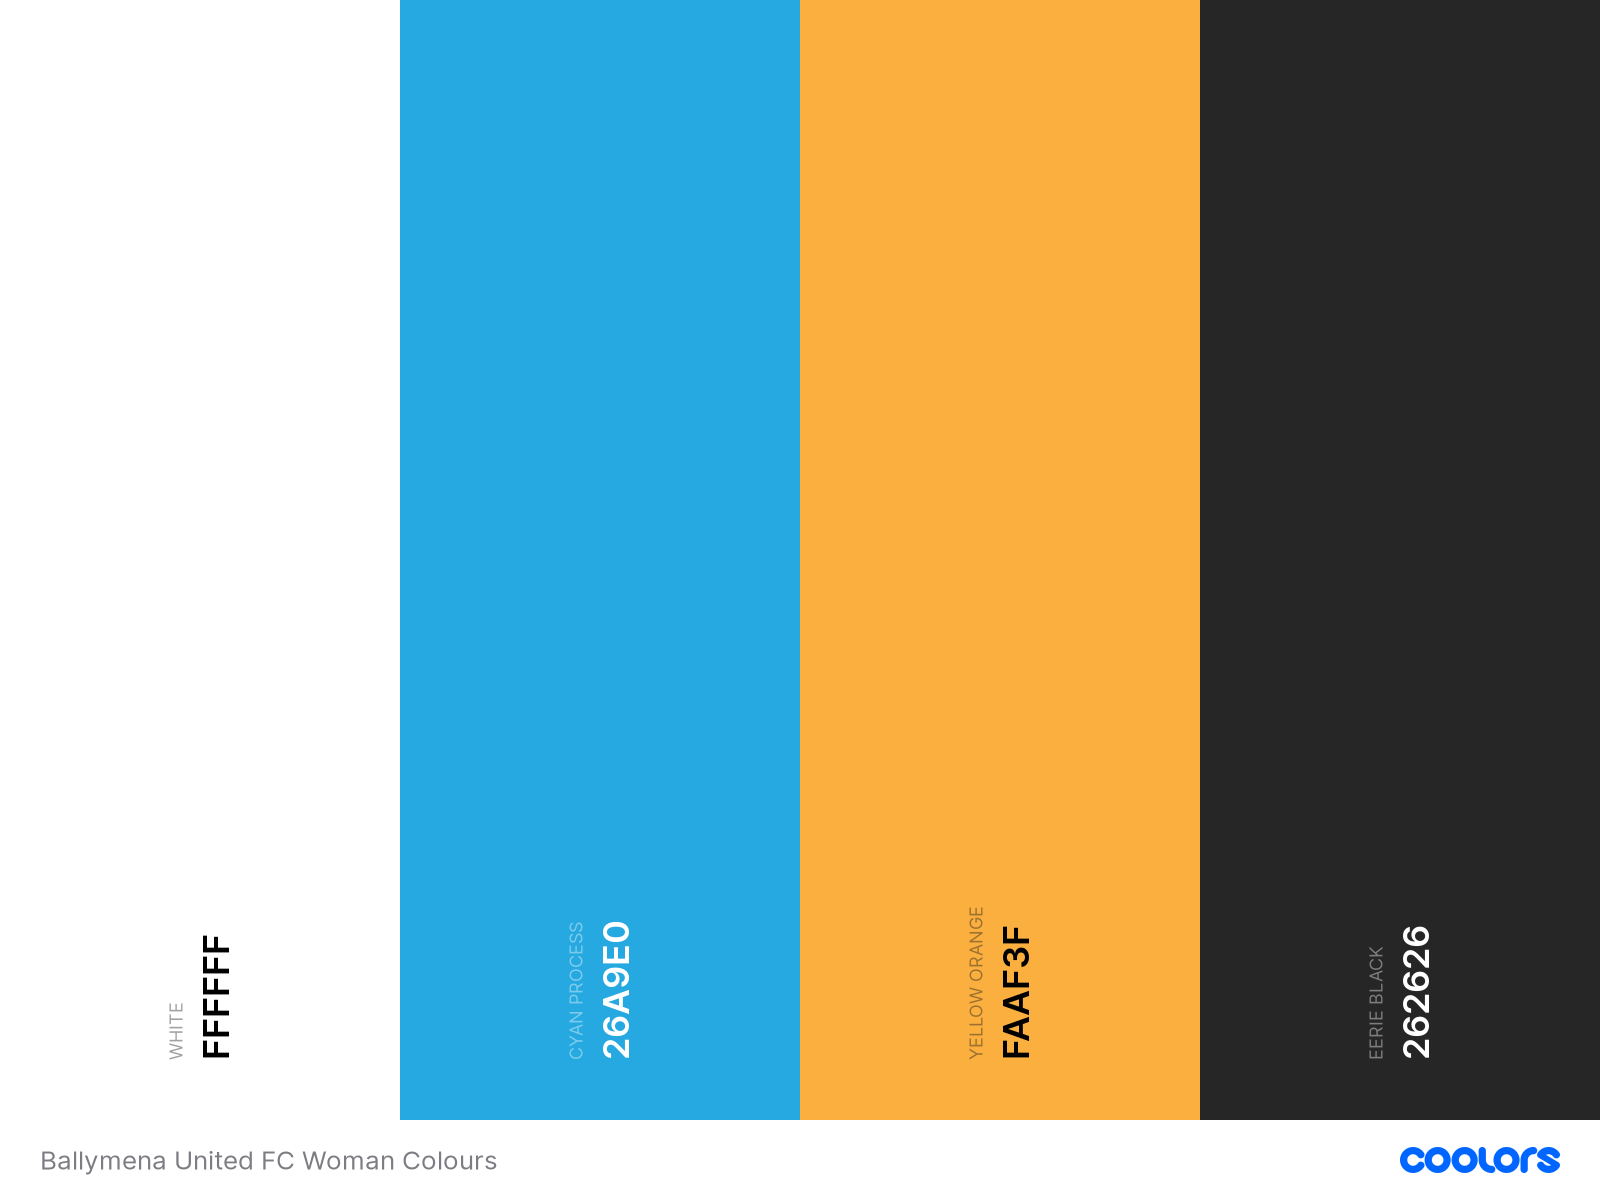
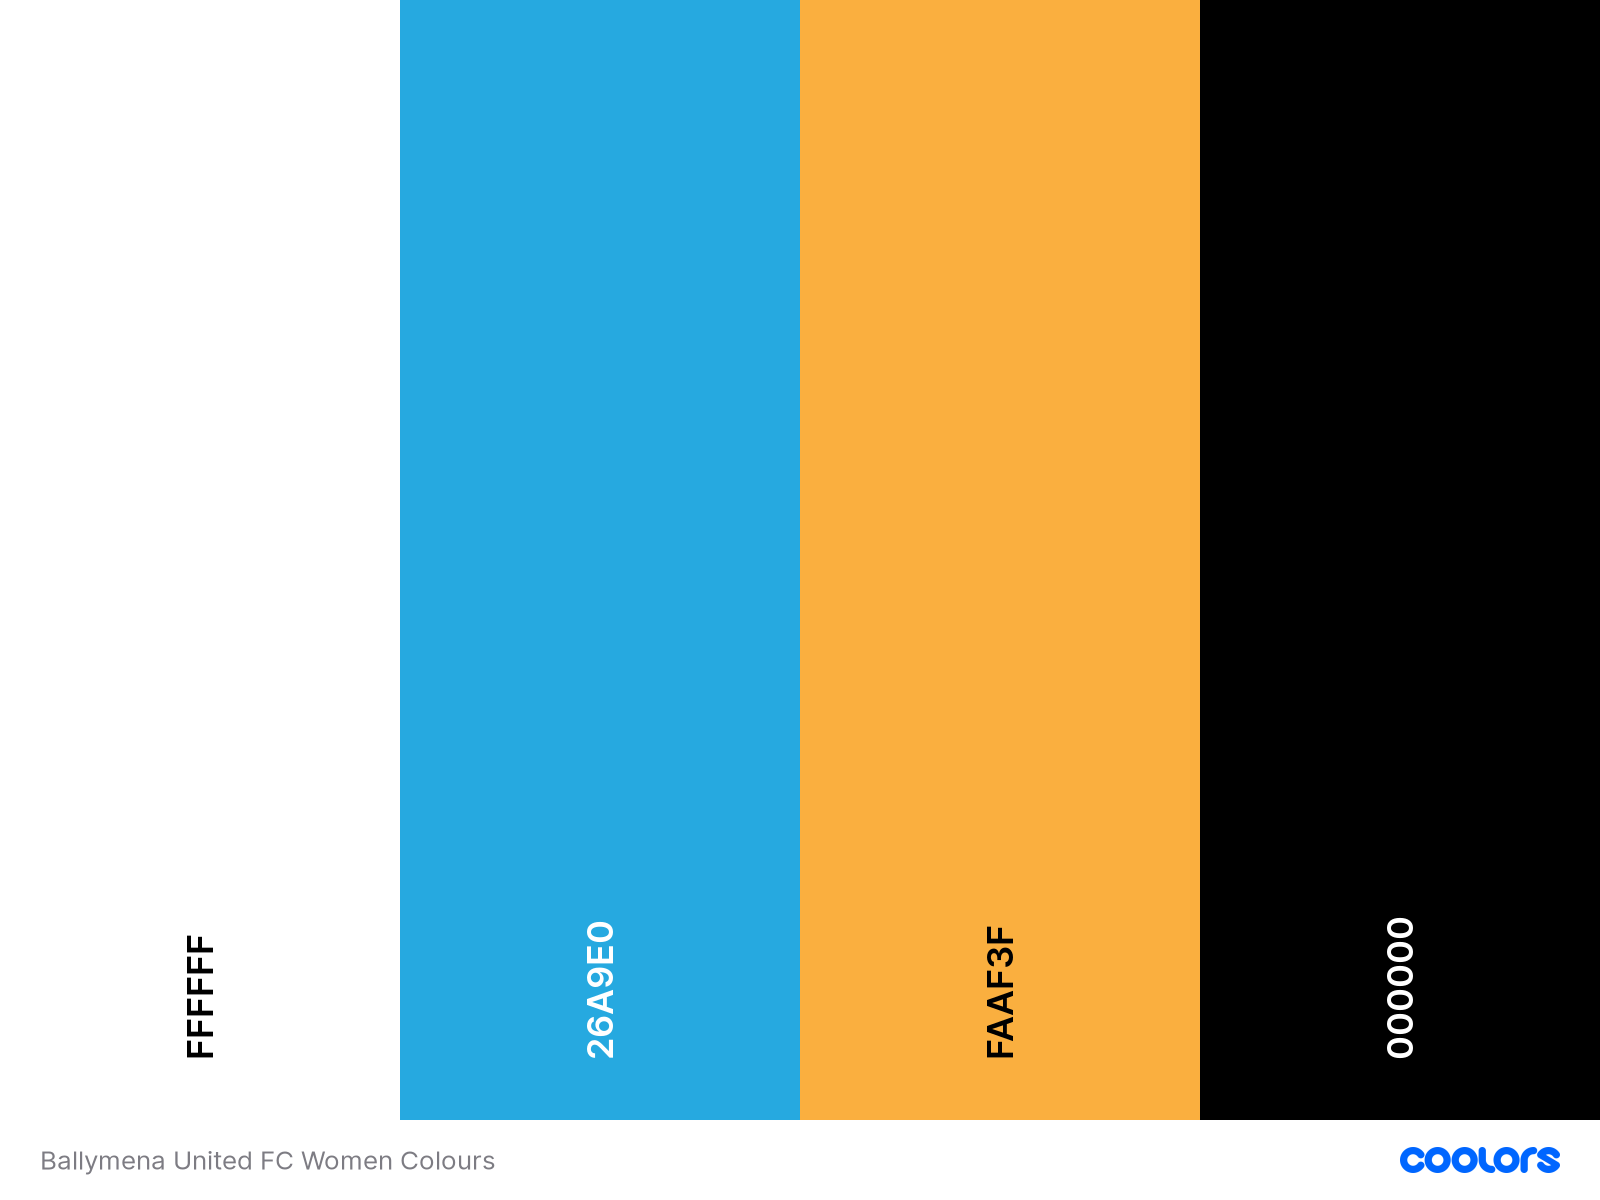
Add to README & fix some bugs

diff --git a/assets/css/style.css b/assets/css/style.css
@@ -114,7 +114,7 @@ body {
     left: 50%;
     transform: translate(-50%, -50%);
     width: 30%; 
-    padding-top: 0.5rem;
+    padding: 1.5rem 0;
     color: #fff;
     border-radius: 2rem;
     border: solid 1px #faaf3f;
@@ -152,8 +152,13 @@ body {
     100% {opacity:1;}
 }
 
- .hero-text {
-    font-size: 2vw;
+.label {
+    position: relative;
+    display: block;
+}
+
+.hero-text {
+    font-size: 2.2vw;
 }
 
 .hero-text-sm {
@@ -648,7 +653,7 @@ textarea:valid+label {
     }
 
     .hero-text-sm {
-        font-size: 2.2vw;
+        font-size: 2vw;
     }
 
 }
@@ -678,7 +683,7 @@ textarea:valid+label {
     }
     
     .hero-text-sm {
-        font-size: 2.5vw;
+        font-size: 2.3vw;
     }
 
     #about {
@@ -797,7 +802,7 @@ textarea:valid+label {
     }
     
     .hero-text-sm {
-        font-size: 4vw;
+        font-size: 3.5vw;
     }
 
     .myH2 {

diff --git a/index.html b/index.html
@@ -57,9 +57,9 @@
     <!-- HOME -->
     <section id="home" class="home">
         <span class="home-text">
-            <p class="hero-text-sm">Welcome to</p>
-            <p class="hero-text">Ballymena United FC Women</p>
-            <p class="hero-text-sm">The home of ladies' football in Ballymena</p>
+            <span class="label hero-text-sm">Welcome to</span>
+            <span class="label hero-text">Ballymena United FC Women</span>
+            <span class="label hero-text-sm">The home of ladies' football in Ballymena</span>
         </span>
     </section>
 

diff --git a/readme.md b/readme.md
@@ -35,7 +35,7 @@ I hope you enjoy this project :)
 * As a user I want to be able to visit the website and see what the football club is all about
 * As a user I want see when training takes place and on what days
 * As a user I want to be able to contact the club by email or phone
-* As a user I want to know who the sponsors are that support the club
+* As a user I want to know who the sponsors are, that support the club
 * As a user I want to be able to connect to the clubs Facebook page
 
 ### **Site Owner Goals**
@@ -72,11 +72,7 @@ I hope you enjoy this project :)
 
 For my fonts, I am going to use [Google Fonts](https://fonts.google.com/) as my source of inspiration.  
 I have went with the same combination for my first ever website as it was a one page scrolling site too and the fonts looked so good on the screen. 
-The fonts are [Titillium Web](https://fonts.google.com/specimen/Titillium+Web) for the main text and [Lato](https://fonts.google.com/specimen/Lato) for titles and section headings.
-
-Below is an example of my fonts where the title is in Lato and the text is in Titillium Web .....
-
-![BUFC Women Fonts](https://github.com/RaVeR76/bufcwoman/raw/main/docs/screenshots/fonts-example.png)
+The fonts are [Titillium Web](https://fonts.google.com/specimen/Titillium+Web) for the main text and [Roboto Serif](https://fonts.google.com/specimen/Roboto+Serif) for titles and section headings.
 
 
 #### Icons
@@ -103,7 +99,7 @@ So a better breakdown of the colours are shown below:
 |***White***           |#FFFFFF    |White              |Body background, text & titles  |
 |***Cyan Process***    |#26a9e0    |Sky Blue           |Body background                 |
 |***Yellow Orange***   |#faaf3f    |Light Orange       |Body background                 |
-|***Eerie Black***     |#262626    |Off Black          |Body background, text & titles  |
+|***Eerie Black***     |#000000    |Black              |Body background, text & titles  |
 
 
 
@@ -148,19 +144,242 @@ Anyway, you can have a wee look at my wireframes below:
 * A footer with designer link & any other required info
 
 
+## **Technologies Utilised**
+---
+
+### **Languages**
+
+- [HTML](https://en.wikipedia.org/wiki/HTML)
+- [CSS](https://en.wikipedia.org/wiki/CSS) 
+- [JavaScript](https://en.wikipedia.org/wiki/JavaScript) 
+
+### **Tools and Libraries**
+
+- [VS Code](https://code.visualstudio.com/)
+- [Git](https://en.wikipedia.org/wiki/Git) 
+- [GitHub](https://github.com/)
+- [jQuery](https://jquery.com/)
+- [Balsamiq](https://balsamiq.com/)
+- [W3C HTML Validation Service](https://validator.w3.org/)
+- [W3C CSS Validation Service](https://jigsaw.w3.org/css-validator/)
+- [Font Awesome](https://fontawesome.com/)
+- [Google Fonts](https://fonts.google.com/)
+
+
+
 ## **Testing**
 ---
+
+### What's It All About?
+
+#### User Story : As a user I want to be able to visit the website and see what the football club is all about
+
+* **Plan**  
+
+* **Implementation**  
+
+* **Test**   
+
+* **Result**  
+
+* **Verdict**
+
+
+### Training Times
+
+#### User Story : As a user I want see when training takes place and on what days
+
+* **Plan**  
+
+* **Implementation**  
+
+* **Test**   
+
+* **Result**  
+
+* **Verdict**
+
+
+
+### Contact
+
+#### User Story : As a user I want to be able to contact the club by email or phone
+
+* **Plan**  
+
+* **Implementation**  
+
+* **Test**   
+
+* **Result**  
+
+* **Verdict**
+
+
+
+### Club Sponsors
+
+#### User Story : As a user I want to know who the sponsors are, that support the club
+
+* **Plan**  
+
+* **Implementation**  
+
+* **Test**   
+
+* **Result**  
+
+* **Verdict**
+
+
+
+### Facebook Link
+
+#### User Story : As a user I want to be able to connect to the clubs Facebook page
+
+* **Plan**  
+
+* **Implementation**  
+
+* **Test**   
+
+* **Result**  
+
+* **Verdict**
+
+
+
+
+
+### **Validation Checks**
+
+All my HTML passed all the checks at [W3C HTML Validation Service](https://validator.w3.org/) with only a few errors which were related to having p elements inside a span for my hero page welcome text.  
+![HTML Code Before Validation](https://github.com/RaVeR76/bufcwoman/raw/main/docs/screenshots/code-before-val.png)  
+![HTML Validation Results](https://github.com/RaVeR76/bufcwoman/raw/main/docs/screenshots/html-val-errors.png)  
+
+I then did a few code changes to eliminate these errors.  
+![HTML Code After Validation Corrections](https://github.com/RaVeR76/bufcwoman/raw/main/docs/screenshots/code-after-val.png)  
+![HTML Validation Results](https://github.com/RaVeR76/bufcwoman/raw/main/docs/screenshots/html-val-no-errors.png)  
+
+
+
+All my CSS passed all checks at [W3C CSS Validation Service](https://jigsaw.w3.org/css-validator/) with no major errors and only a few warnings, which were all to do with **webkits** issues.  
+![CSS Validation Results](https://github.com/RaVeR76/bufcwoman/raw/main/docs/screenshots/css-validation.png)
+
 
 
 ## **Bugs**
 ---
+
+### **Bug Title**
+
+* **Bug**
+
+* **Fix**
+
+* **Verdict**
+
+
+### **Bug Title**
+
+* **Bug**
+
+* **Fix**
+
+* **Verdict**
+
+
+### **Bug Title**
+
+* **Bug**
+
+* **Fix**
+
+* **Verdict**
+
+
+### **Bug Title**
+
+* **Bug**
+
+* **Fix**
+
+* **Verdict**
+
+
+### **Bug Title**
+
+* **Bug**
+
+* **Fix**
+
+* **Verdict**
+
+
+### **Bug Title**
+
+* **Bug**
+
+* **Fix**
+
+* **Verdict**
+
+
+### **Bug Title**
+
+* **Bug**
+
+* **Fix**
+
+* **Verdict**
+
+
+### **Bug Title**
+
+* **Bug**
+
+* **Fix**
+
+* **Verdict**
+
+
+### **Bug Title**
+
+* **Bug**
+
+* **Fix**
+
+* **Verdict**
+
+
+
+
+
+Title Offset by 65px
+
+
+Mozilla Training card backface visability not working 
+(https://stackoverflow.com/questions/9604982/backface-visibility-not-working-properly-in-firefox-works-in-safari)
+
+
+
+
+
 
 
 ## **Deployment**
 ---
 ### Local Deployment
 
+Use Live-Server
+
+Once deployed to Netlify 
+
 ### Live Deployment 
+
+Deployed to Netlify
+First time so see how it goes, still on the steep learning curve
+
 
 ## **Conclusion**
 ---
@@ -171,7 +390,24 @@ Anyway, you can have a wee look at my wireframes below:
 
 **Code Credits**
 
+Navbar - Main code utilised from [here](https://codepen.io/albizan/pen/mMWdWZ)
+
+Hero Text Fade In - (Code taken from [here](https://blog.hubspot.com/website/css-fade-in) for simple fade in  effect
+
+Training Times Animated Cards - I got the code from this [Source Of Inspiration](https://codepen.io/anatravas/pen/qqbBeJ) but stripped it back to make it suit my projects design 
+
+Contact Form - Code taken from [here](https://codepen.io/lina994/pen/zYdbwBP) and slightly modified to suit
+
 **Image Credits**
+
+Hero Image - 
+
+Club Crest & Sponsors - Mark Livingstone
+
+Training Background Image - [Photo by Donnycocacola on Unsplash](https://unsplash.com/photos/-3pxa1O1zoI?utm_source=unsplash&utm_medium=referral&utm_content=creditShareLink)
+
+Contact Background Image - [Photo by Janosch Diggelmann on Unsplash](https://unsplash.com/photos/Ept2Na00VGY?utm_source=unsplash&utm_medium=referral&utm_content=creditShareLink)
+
 
 **Other Credits**
 
